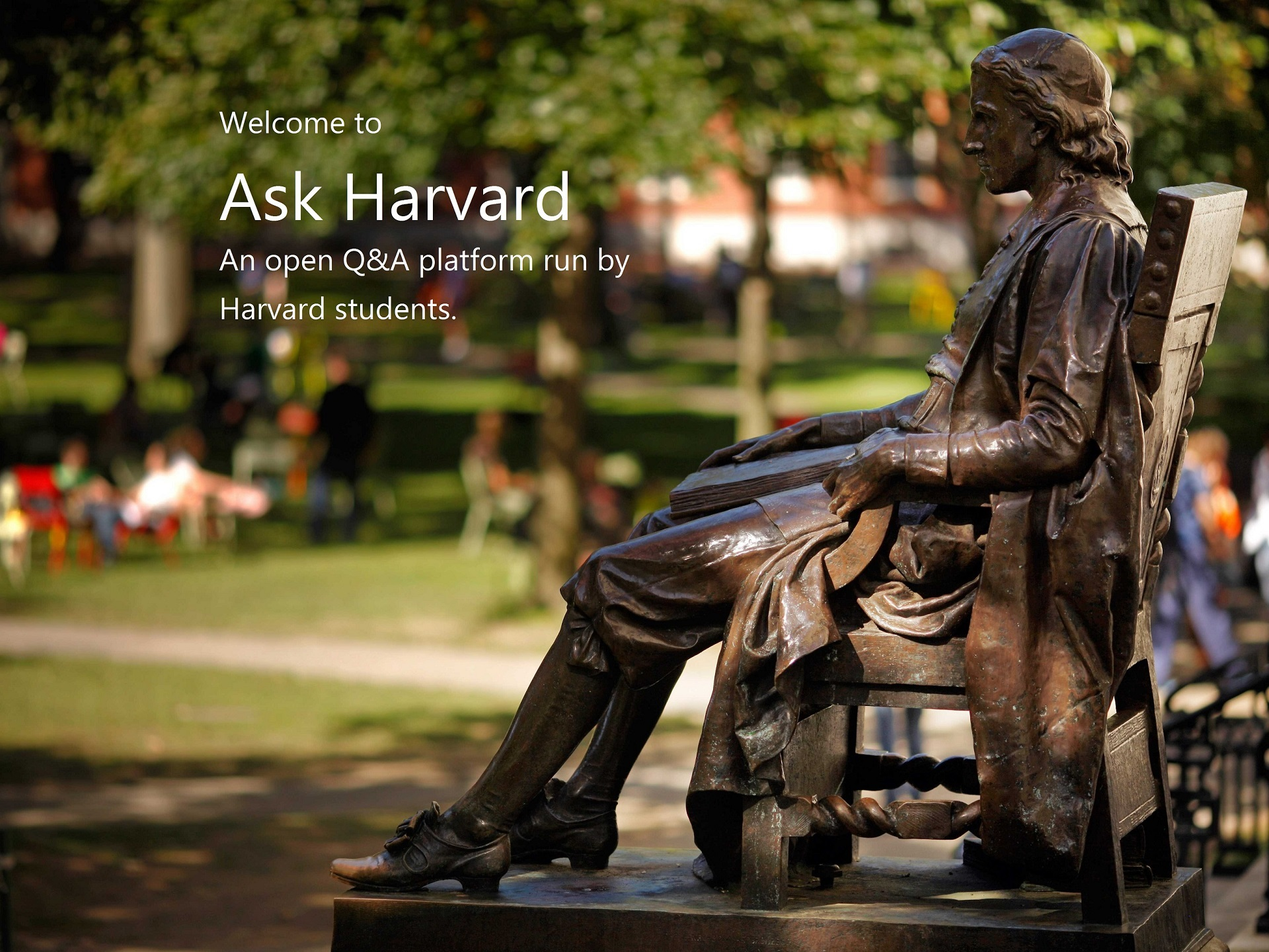
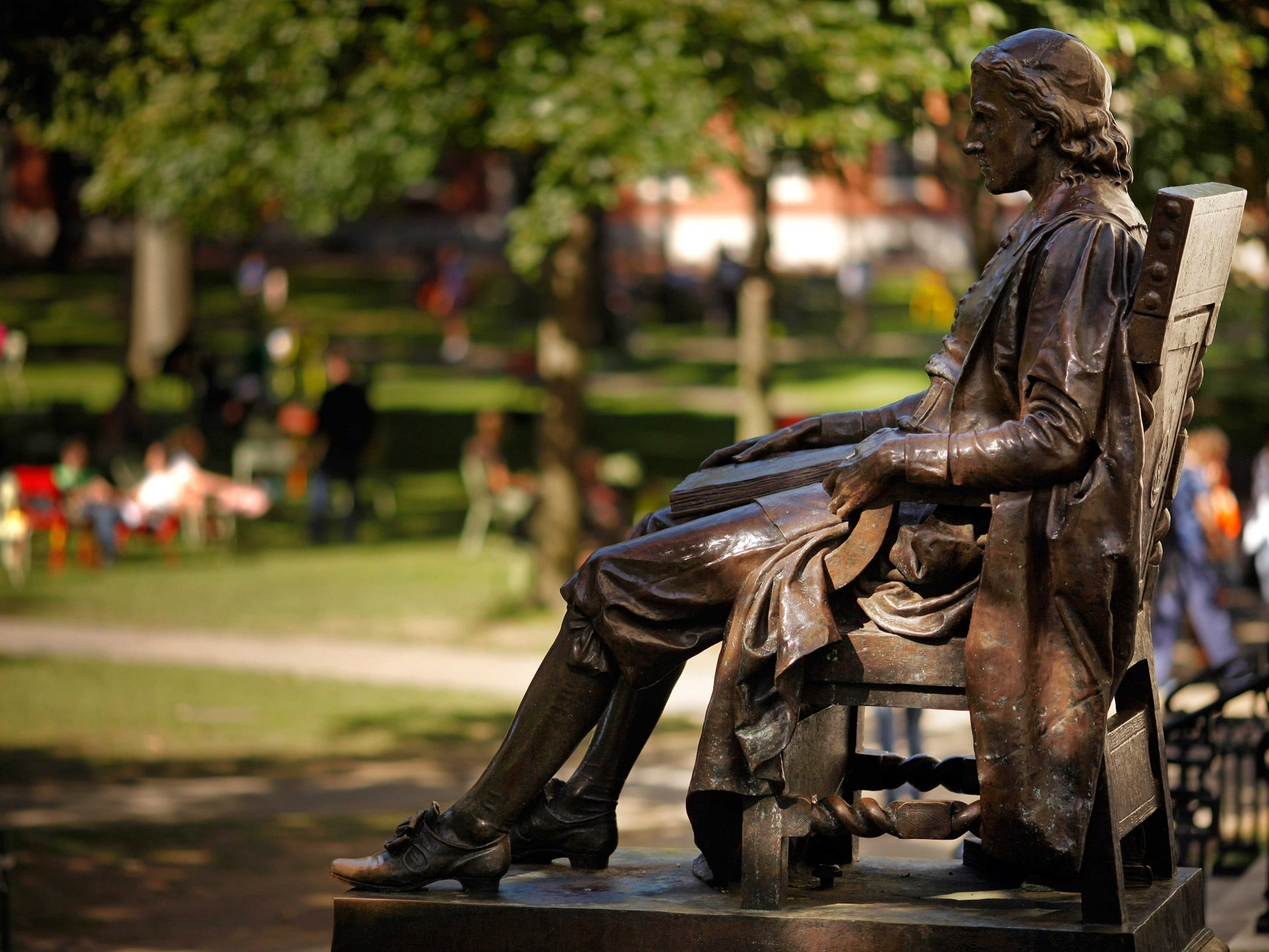
wrote security function to prevent multiple login sessions from differnt IPs at the same time, compressed images for speed

Changed region(s): [[0.1562, 0.1875, 0.5, 0.2812], [0.1562, 0.3125, 0.375, 0.3438], [0.1875, 0.125, 0.3125, 0.1562]]

diff --git a/client/stylesheets/style.css b/client/stylesheets/style.css
@@ -296,7 +296,7 @@ a#link-myquestions:hover
 /* Sets properties of background picture in Home */
 #question-page
 {
-  background: url("/img/harvard.png");
+  background: url("/img/harvard.jpg");
   width: 100%;
   height: 100%;
   position: fixed;
